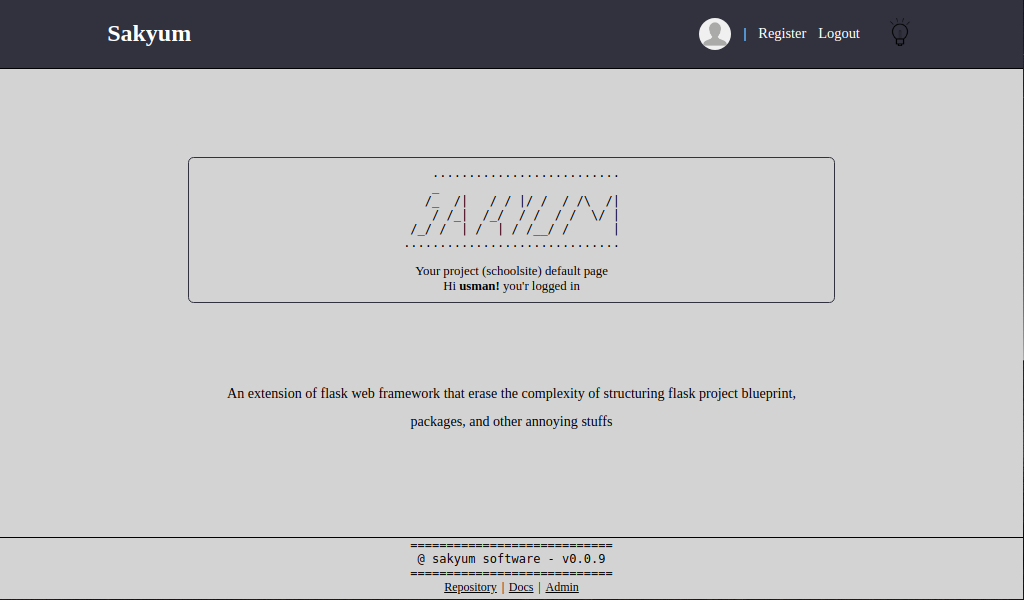
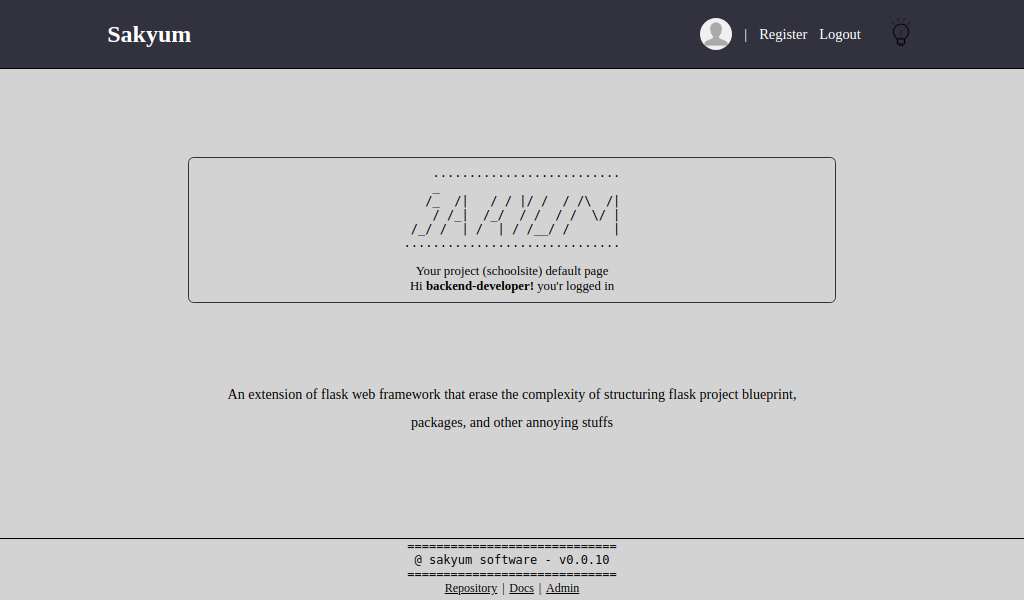
ready to releasing v0.0.10

diff --git a/setup.py b/setup.py
@@ -6,11 +6,11 @@ from setuptools import find_packages
 
 setup(
   name = 'sakyum', # name of the main package (base folder i.e sakyum)
-  version = '0.0.9',
+  version = '0.0.10',
   description = 'An extension of flask web framework that erase the complexity of structuring flask project blueprint, packages, and other annoying stuffs',
   long_description = open('README.md').read() + '\n\n' + open('CHANGELOG').read(),
   long_description_content_type='text/markdown',
-  python_requires = '>=3.6',
+  python_requires = '>=3.7',
   platforms='any',
   
   url = 'https://sakyum.readthedocs.io',
@@ -22,15 +22,18 @@ setup(
     'Development Status :: 5 - Production/Stable',
     'Environment :: Web Environment',
     'Intended Audience :: Developers',
+    'License :: OSI Approved :: MIT License',
     'Natural Language :: English',
     # 'Operating System :: POSIX :: Linux',
     'Operating System :: OS Independent',
-    'License :: OSI Approved :: MIT License',
-    'Topic :: Software Development :: Libraries :: Python Modules',
     'Programming Language :: Python',
     'Programming Language :: Python :: 3',
+    'Programming Language :: Python :: 3.7',
     'Programming Language :: Python :: 3.8',
+    'Programming Language :: Python :: 3.9',
     'Programming Language :: Python :: 3.10',
+    'Topic :: Internet',
+    'Topic :: Software Development :: Libraries :: Python Modules',
   ],
   
   # used when people are searching for a module, keywords separated with a space

diff --git a/sakyum/utils.py b/sakyum/utils.py
@@ -57,9 +57,9 @@ def stylePage(name, version=False):
   
   
 # Style for sakyum default pages:
-    # ============================
-    #  @ sakyum software - v0.0.9 
-    # ============================
+    # =============================
+    #  @ sakyum software - v0.0.10 
+    # =============================
 footer_style = stylePage(__title__, version=__version__)
 
 

diff --git a/sakyum/__init__.py b/sakyum/__init__.py
@@ -14,7 +14,7 @@
 
 
 __title__ = 'sakyum'
-__version__ = '0.0.9'
+__version__ = '0.0.10'
 __author__ = 'Usman Musa'
 __author_email__ = 'usmanmusa1920@gmail.com'
 __author_website__ = 'https://usmanmusa1920.github.io'

diff --git a/README.md b/README.md
@@ -78,6 +78,7 @@ See more documentations <a href="https://sakyum.readthedocs.io">here!</a>
 ### Sakyum default page
 
 ![Sakyum default page](./media/sakyum_default_page.png)
+<!-- [![Sakyum default page](https://raw.githubusercontent.com/usmanmusa1920/sakyum/master/media/sakyum_default_page.png)](https://sakyum.readthedocs.io) -->
 
 ## Useful links
 
